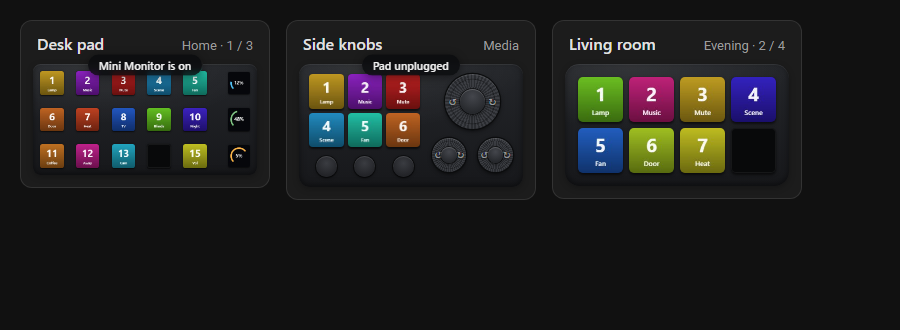
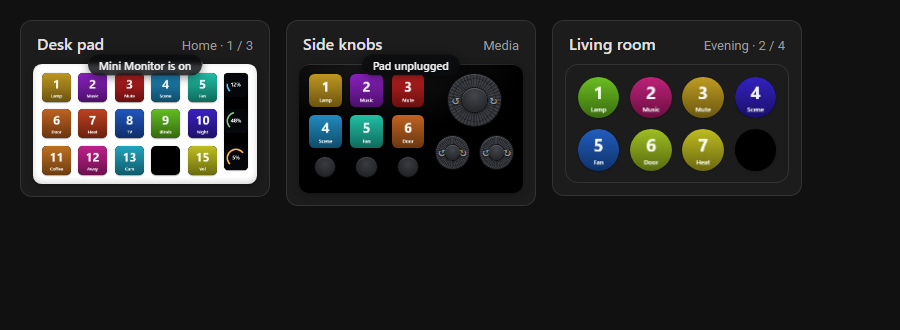
Draw the card like the app's pad: its front colour or none, its keys' corners, the space between keys and round the edge, and the band on one strip (0.1.1)

Changed region(s): [[0.0311, 0.1818, 0.5911, 0.6061], [0.6222, 0.1818, 0.8711, 0.5455]]

diff --git a/custom_components/stream_dock_ha/frontend/stream-dock-card.js b/custom_components/stream_dock_ha/frontend/stream-dock-card.js
@@ -9,11 +9,11 @@
  */
 
 const CARD_TYPE = 'stream-dock-card';
-const CARD_VERSION = '0.1.0';
+const CARD_VERSION = '0.1.1';
 
 /** Picture sizes at scale 1 (protocol 3.4). */
 const KEY_PX = 85;
-/** Room around the controls on the pad body, in key units. */
+/** Room around the controls on the pad body, in key units, when the app doesn't say. */
 const BODY_MARGIN = 0.3;
 /** How long an error message stays, in ms. */
 const TOAST_MS = 3000;
@@ -59,6 +59,33 @@ export function keySizePx(widthPx, bodyUnits) {
   const u = Number(bodyUnits);
   if (!(w > 0) || !(u > 0)) return 0;
   return w / u;
+}
+
+/**
+ * How the pad's front and keys look, from its PadState's `body` (protocol
+ * 3.2), so the card draws it as the app does. An app that doesn't send it gets
+ * the card's own dark pad. `edge` and `corner` are in key units; key and band
+ * corners are parts of their width, 0.5 being round.
+ */
+export function bodyLook(body) {
+  const b = body && typeof body === 'object' ? body : {};
+  const part = (value, fallback, most) => {
+    const n = Number(value);
+    return value != null && Number.isFinite(n) && n >= 0 ? Math.min(most, n) : fallback;
+  };
+  const rgb = Array.isArray(b.front) && b.front.length === 3 && b.front.every((v) => Number.isFinite(Number(v)))
+    ? b.front.map((v) => Math.min(255, Math.max(0, Math.round(Number(v)))))
+    : null;
+  return {
+    front: rgb ? `rgb(${rgb.join(', ')})` : null,
+    // A see-through front: the keys float on the card.
+    clear: 'front' in b && !rgb,
+    light: !!rgb && rgb[0] * 0.299 + rgb[1] * 0.587 + rgb[2] * 0.114 > 150,
+    edge: part(b.edge, BODY_MARGIN, 2),
+    corner: part(b.corner, 0.32, 2),
+    keyCorner: part(b.key_corner, 0.11, 0.5),
+    bandCorner: part(b.band_corner, 0.09, 0.5),
+  };
 }
 
 /**
@@ -122,12 +149,46 @@ export function computeLayout(layout, margin = BODY_MARGIN) {
       height: (item.h / height) * 100,
     };
   }
+  // The band's tiles share one black side screen, as on the 293S.
+  const bands = items.filter((item) => item.kind === 'band');
+  let strip = null;
+  if (bands.length) {
+    const left = Math.min(...bands.map((b) => b.left));
+    const top = Math.min(...bands.map((b) => b.top));
+    const right = Math.max(...bands.map((b) => b.left + b.w));
+    const bottom = Math.max(...bands.map((b) => b.top + b.h));
+    strip = {
+      w: Math.min(...bands.map((b) => b.w)),
+      box: {
+        left: (left / width) * 100,
+        top: (top / height) * 100,
+        width: ((right - left) / width) * 100,
+        height: ((bottom - top) / height) * 100,
+      },
+    };
+  }
   return {
     version: layout && layout.version != null ? String(layout.version) : null,
     width,
     height,
     items,
+    strip,
   };
+}
+
+/**
+ * A pad's Layout and body as the card draws them, with a version that changes
+ * when either the layout or the room round it does.
+ */
+export function laidOut(layout, body) {
+  const look = bodyLook(body);
+  const computed = computeLayout(layout, look.edge);
+  const version = layout && layout.version != null
+    ? String(layout.version)
+    : JSON.stringify((layout && layout.controls) || []);
+  computed.version = `${version}@${look.edge}`;
+  computed.look = look;
+  return computed;
 }
 
 function normalisePicture(raw) {
@@ -289,7 +350,7 @@ ha-card:not(:defined) {
 
 .frame {
   position: relative; width: 100%; container-type: inline-size;
-  --bw: 7; --bh: 4;
+  --bw: 7; --bh: 4; --pad-r: .32; --key-r: .11; --band-r: .09;
   aspect-ratio: var(--bw) / var(--bh);
   --u: calc(100cqw / var(--bw));
   -webkit-tap-highlight-color: transparent;
@@ -298,13 +359,26 @@ ha-card:not(:defined) {
 .frame[hidden] { display: none; }
 .pad {
   position: absolute; inset: 0;
-  border-radius: calc(var(--u) * 0.32);
+  border-radius: calc(var(--u) * var(--pad-r));
   background:
     radial-gradient(120% 90% at 30% 0%, rgba(255,255,255,.07), rgba(255,255,255,0) 60%),
     linear-gradient(180deg, #24262a 0%, #17181b 100%);
   box-shadow: inset 0 1px 0 rgba(255,255,255,.08), inset 0 -2px 6px rgba(0,0,0,.5),
     0 2px 6px rgba(0,0,0,.25);
   transition: filter .25s ease;
+}
+/* The front's colour from the app, lit a little from the top. */
+.pad.painted {
+  background:
+    radial-gradient(120% 90% at 30% 0%, rgba(255,255,255,.09), rgba(255,255,255,0) 60%),
+    var(--front);
+  box-shadow: inset 0 1px 0 rgba(255,255,255,.14), inset 0 -2px 6px rgba(0,0,0,.16),
+    0 1px 2px rgba(0,0,0,.18), 0 2px 8px rgba(0,0,0,.14);
+}
+/* No front: only an outline shows where the pad is, as in the app. */
+.pad.clear {
+  background: none; box-shadow: none;
+  outline: 1px solid var(--divider-color, rgba(127,127,127,.35)); outline-offset: -1px;
 }
 .pad.dim .ctl, .pad.dim .knob { filter: brightness(.38) saturate(.6); }
 .pad.dim { }
@@ -318,12 +392,17 @@ ha-card:not(:defined) {
 .ctl:focus-visible, .knob [data-control]:focus-visible { outline: 2px solid var(--primary-color, #03a9f4); }
 
 .key, .band {
-  border-radius: 11%;
-  background: #08090a;
-  box-shadow: inset 0 0 0 1px rgba(255,255,255,.06), 0 calc(var(--u) * .03) calc(var(--u) * .06) rgba(0,0,0,.6);
+  border-radius: calc(var(--key-r) * 100%);
+  background: #000;
+  box-shadow: 0 calc(var(--u) * .015) calc(var(--u) * .04) rgba(0,0,0,.35);
   overflow: hidden;
 }
-.band { border-radius: 9%; }
+.band { border-radius: calc(var(--band-r) * 100%); box-shadow: none; }
+.strip {
+  position: absolute; background: #000; pointer-events: none;
+  border-radius: calc(var(--u) * var(--band-r) * var(--sw, .82));
+  box-shadow: 0 calc(var(--u) * .015) calc(var(--u) * .04) rgba(0,0,0,.35);
+}
 .key img, .band img {
   position: absolute; inset: 0; width: 100%; height: 100%; display: block;
   object-fit: cover; pointer-events: none; -webkit-user-drag: none;
@@ -371,7 +450,7 @@ ha-card:not(:defined) {
 
 .overlay {
   position: absolute; inset: 0; display: flex; align-items: center; justify-content: center;
-  pointer-events: none; border-radius: calc(var(--u) * .32);
+  pointer-events: none; border-radius: calc(var(--u) * var(--pad-r));
 }
 .overlay[hidden] { display: none; }
 .overlay.block { pointer-events: auto; cursor: not-allowed; }
@@ -776,8 +855,8 @@ export class StreamDockCard extends Base {
   }
 
   _cachedLayout() {
-    const layout = this._padId && layoutCache.get(this._padId);
-    return layout ? computeLayout(layout) : null;
+    const cached = this._padId && layoutCache.get(this._padId);
+    return cached ? laidOut(cached.layout, cached.body) : null;
   }
 
   /* ---------- Scale ---------- */
@@ -824,17 +903,18 @@ export class StreamDockCard extends Base {
     this._loaded = true;
     this._message = null;
     if (pad && pad.layout) {
-      const version = pad.layout.version != null ? String(pad.layout.version) : JSON.stringify(pad.layout.controls || []);
-      if (!this._layout || this._layout.version !== version) {
-        layoutCache.set(this._padId, pad.layout);
-        const computed = computeLayout(pad.layout);
-        computed.version = version;
+      layoutCache.set(this._padId, { layout: pad.layout, body: pad.body });
+      const computed = laidOut(pad.layout, pad.body);
+      if (!this._layout || this._layout.version !== computed.version) {
         this._buildControls(computed);
         // The real layout can change the key size: check the scale.
         if (this._config.scale == null && this._watch) {
           const scale = this._measureScale();
           if (scale && scale !== this._watch.scale) this._sync();
         }
+      } else {
+        // The front's colour or the keys' corners can change on their own.
+        this._applyBody(computed.look);
       }
     }
     this._renderChrome();
@@ -853,6 +933,17 @@ export class StreamDockCard extends Base {
     this._layout = layout;
     this._els.clear();
     const frag = document.createDocumentFragment();
+    if (layout.strip) {
+      const strip = document.createElement('div');
+      strip.className = 'strip';
+      const b = layout.strip.box;
+      strip.style.left = `${b.left}%`;
+      strip.style.top = `${b.top}%`;
+      strip.style.width = `${b.width}%`;
+      strip.style.height = `${b.height}%`;
+      strip.style.setProperty('--sw', String(layout.strip.w));
+      frag.appendChild(strip);
+    }
     for (const item of layout.items) {
       const el = document.createElement('div');
       const b = item.box;
@@ -899,7 +990,22 @@ export class StreamDockCard extends Base {
     this._padEl.appendChild(frag);
     this._frame.style.setProperty('--bw', String(layout.width));
     this._frame.style.setProperty('--bh', String(layout.height));
+    this._applyBody(layout.look);
     for (const name of this._els.keys()) this._applyPicture(name);
+  }
+
+  _applyBody(look) {
+    if (!this._built || !look) return;
+    const pad = this._padEl;
+    const style = this._frame.style;
+    pad.classList.toggle('painted', !!look.front);
+    pad.classList.toggle('clear', look.clear);
+    pad.classList.toggle('light', look.light);
+    if (look.front) style.setProperty('--front', look.front);
+    else style.removeProperty('--front');
+    style.setProperty('--pad-r', String(look.corner));
+    style.setProperty('--key-r', String(look.keyCorner));
+    style.setProperty('--band-r', String(look.bandCorner));
   }
 
   _makePressable(el, name, press) {

diff --git a/frontend-dev/mock-hass.js b/frontend-dev/mock-hass.js
@@ -3,7 +3,7 @@
 // ready / disconnected events, with the protocol.md section 5 messages.
 // Never talks to a real Home Assistant.
 
-import { layout293s, layoutAkp03e, layoutDashboard } from './layouts.mjs';
+import { layout293s, layoutAkp03e, layoutDashboard, bodyWhite, bodyBlack, bodyClear } from './layouts.mjs';
 
 const KEY_PX = 85;
 const BAND_PX = 80;
@@ -162,13 +162,13 @@ export function createMockHass({ log = () => {}, latency = 40 } = {}) {
     });
   };
   addPad('9d04e1b7a2c35f18', 'dev_293s', 'DESKTOP-MAX',
-    padState('9d04e1b7a2c35f18', 'stream_dock_293s', 'Stream Dock 293S', 'Desk pad', layout293s), ['key_14']);
+    padState('9d04e1b7a2c35f18', 'stream_dock_293s', 'Stream Dock 293S', 'Desk pad', layout293s, { body: bodyWhite }), ['key_14']);
   addPad('2b7e91c4d05a3f68', 'dev_akp03e', 'DESKTOP-MAX',
     padState('2b7e91c4d05a3f68', 'akp03e', 'AKP03E', 'Side knobs', layoutAkp03e,
-      { profile: { id: 'aa11', name: 'Media' }, pages: 1 }));
+      { profile: { id: 'aa11', name: 'Media' }, pages: 1, body: bodyBlack }));
   addPad('f00dfeed12345678', 'dev_dash', 'LAPTOP-OFFICE',
     padState('f00dfeed12345678', 'dashboard', 'Dashboard pad', 'Living room', layoutDashboard,
-      { profile: { id: 'bb22', name: 'Evening' }, page: 2, pages: 4 }), ['key_8']);
+      { profile: { id: 'bb22', name: 'Evening' }, page: 2, pages: 4, body: bodyClear }), ['key_8']);
 
   // Some press errors, as the integration returns them (protocol 5.3).
   pads.get('9d04e1b7a2c35f18').errors.key_5 = { code: 'failed', message: 'That key opens programs, which Home Assistant isn’t allowed to press' };

diff --git a/tests/test_connect.py b/tests/test_connect.py
@@ -17,7 +17,7 @@ async def test_connect_success(
     app = FakeApp(await hass_ws_client(hass))
     result = await app.connect()
     assert result["success"]
-    assert result["result"] == {"protocol": 1, "integration_version": "0.1.0"}
+    assert result["result"] == {"protocol": 1, "integration_version": "0.1.1"}
     assert await app.next_event() == {"kind": "watch", "pads": {}}
 
     device = get_device(hass, INSTANCE_1)

diff --git a/tests/test_card_resource.py b/tests/test_card_resource.py
@@ -9,7 +9,7 @@ from pytest_homeassistant_custom_component.common import MockConfigEntry
 
 from custom_components.stream_dock_ha.const import DOMAIN
 
-URL = "/stream_dock_ha/stream-dock-card.js?v=0.1.0"
+URL = "/stream_dock_ha/stream-dock-card.js?v=0.1.1"
 
 
 async def _setup(hass: HomeAssistant, lovelace: dict | None = None) -> MockConfigEntry:

diff --git a/tests/test_init.py b/tests/test_init.py
@@ -21,7 +21,7 @@ async def test_card_is_served(
 ) -> None:
     """The card is served and loaded on dashboards as a module."""
     assert (
-        "/stream_dock_ha/stream-dock-card.js?v=0.1.0"
+        "/stream_dock_ha/stream-dock-card.js?v=0.1.1"
         in hass.data[DATA_EXTRA_MODULE_URL].urls
     )
     client = await hass_client()

diff --git a/docs/protocol.md b/docs/protocol.md
@@ -133,7 +133,8 @@ Changes to `pc.cpu`, `pc.memory` and `pc.gpu` alone send it at most every 10 s.
   "pages": 3,
   "look": "c2a91f0e33b7d455",
   "alert": false,
-  "layout": Layout
+  "layout": Layout,
+  "body": Body
 }
 ```
 
@@ -145,12 +146,12 @@ Changes to `pc.cpu`, `pc.memory` and `pc.gpu` alone send it at most every 10 s.
 | `brightness` | 0 to 100 |
 | `mini_monitor` | `true` or `false`, or `null` for a pad that can't show it (`dashboard`) |
 | `page` | Counted from 1 |
-| `look` | Changes whenever the pad's screen keys would look different, including its layout and whether the screen is on. Band tiles are left out, because they follow the PC's load every 3 s. The integration uses it for the `image` entity's `image_last_updated` without needing pictures |
+| `look` | Changes whenever the pad's screen keys would look different, including its layout, its `body` and whether the screen is on. Band tiles are left out, because they follow the PC's load every 3 s. The integration uses it for the `image` entity's `image_last_updated` without needing pictures |
 | `alert` | An alert is covering the keys (section 6) |
 
 **Layout**
 
-Where every control is, in **key units**: 1.0 is the width of one key. The gaps are already included, so a key in column `c` starts at `x = c * (1 + gap_x)`.
+Where every control is, in **key units**: 1.0 is the width of one key. The gaps between keys as they're seen are already included, so a key in column `c` starts at `x = c * (1 + gap_x)`. They're a quarter of a key on the 293S and dashboard pads, and 0.26 on the AKP03E, as the app's window and pads on screen draw them. They aren't the pad's own gap setting, which is the screen hidden between keys that pictures across keys skip.
 
 ```json
 {
@@ -175,6 +176,23 @@ Where every control is, in **key units**: 1.0 is the width of one key. The gaps 
 - `width` and `height` cover every control, band tiles and knobs included.
 - `version` changes when the layout changes, for example when a dashboard pad's profile has a different grid.
 - Control names are the ones in [home-assistant-control.md](home-assistant-control.md): `key_N` counted from 1, left to right then down; `button_N`; `<knob>_knob_<left|right|press>`; and `band_N`, from the top, for the 293S's band tiles.
+
+**Body**
+
+How the pad looks round its controls, so the card draws it as the app's window does.
+
+```json
+{ "front": [255, 255, 255], "edge": 0.3, "corner": 0.3, "key_corner": 0.165, "band_corner": 0.175 }
+```
+
+| Field | Meaning |
+| --- | --- |
+| `front` | The front's colour as `[r, g, b]`, or `null` for a see-through front: the keys float on whatever is behind the pad |
+| `edge` | The front round the controls, in key units |
+| `corner` | How round the front's corners are, in key units |
+| `key_corner`, `band_corner` | How round the keys' and band tiles' corners are, as a part of their width: 0 is square, 0.5 is round. Pictures already have black in their cut corners; on another front the card rounds them off |
+
+An app that sends no `body` gets the card's own dark pad.
 
 Result: `{ "renew_pads": [] }`. A non-empty list means "make new ids for these pads", as section 2 describes.
 
@@ -257,7 +275,7 @@ Commands added for the integration, also available through the event route:
 | Command | Fields | What it does | Reply `result` |
 | --- | --- | --- | --- |
 | `set_screen` | `pad`, `on` | Turns the pad's screen off (dark until turned on again or pressed) or back on | `{ "on": true }` |
-| `snapshot` | `pad`, optional `scale` (1–3, default 1) | A picture of the whole pad, laid out as in the layout, on the pad's front colour (dark grey if clear) | `{ "content_type": "image/jpeg", "data": "<base64>" }` |
+| `snapshot` | `pad`, optional `scale` (1–3, default 1) | A picture of the whole pad, laid out as in the layout with the body's `edge` round it, on the pad's front colour (dark grey if clear). The band's tiles sit on one black strip | `{ "content_type": "image/jpeg", "data": "<base64>" }` |
 | `show_alert` | `pad`, and optional `title`, `message`, `icon` (`mdi:…`), `color` ([r,g,b]), `seconds` (0 = until pressed; default 0), `camera` (a camera entity whose picture fills the alert) | Covers the pad's screen keys with one alert picture; see section 6 | `{}` |
 | `clear_alert` | `pad` | Takes the alert away | `{}` |
 
